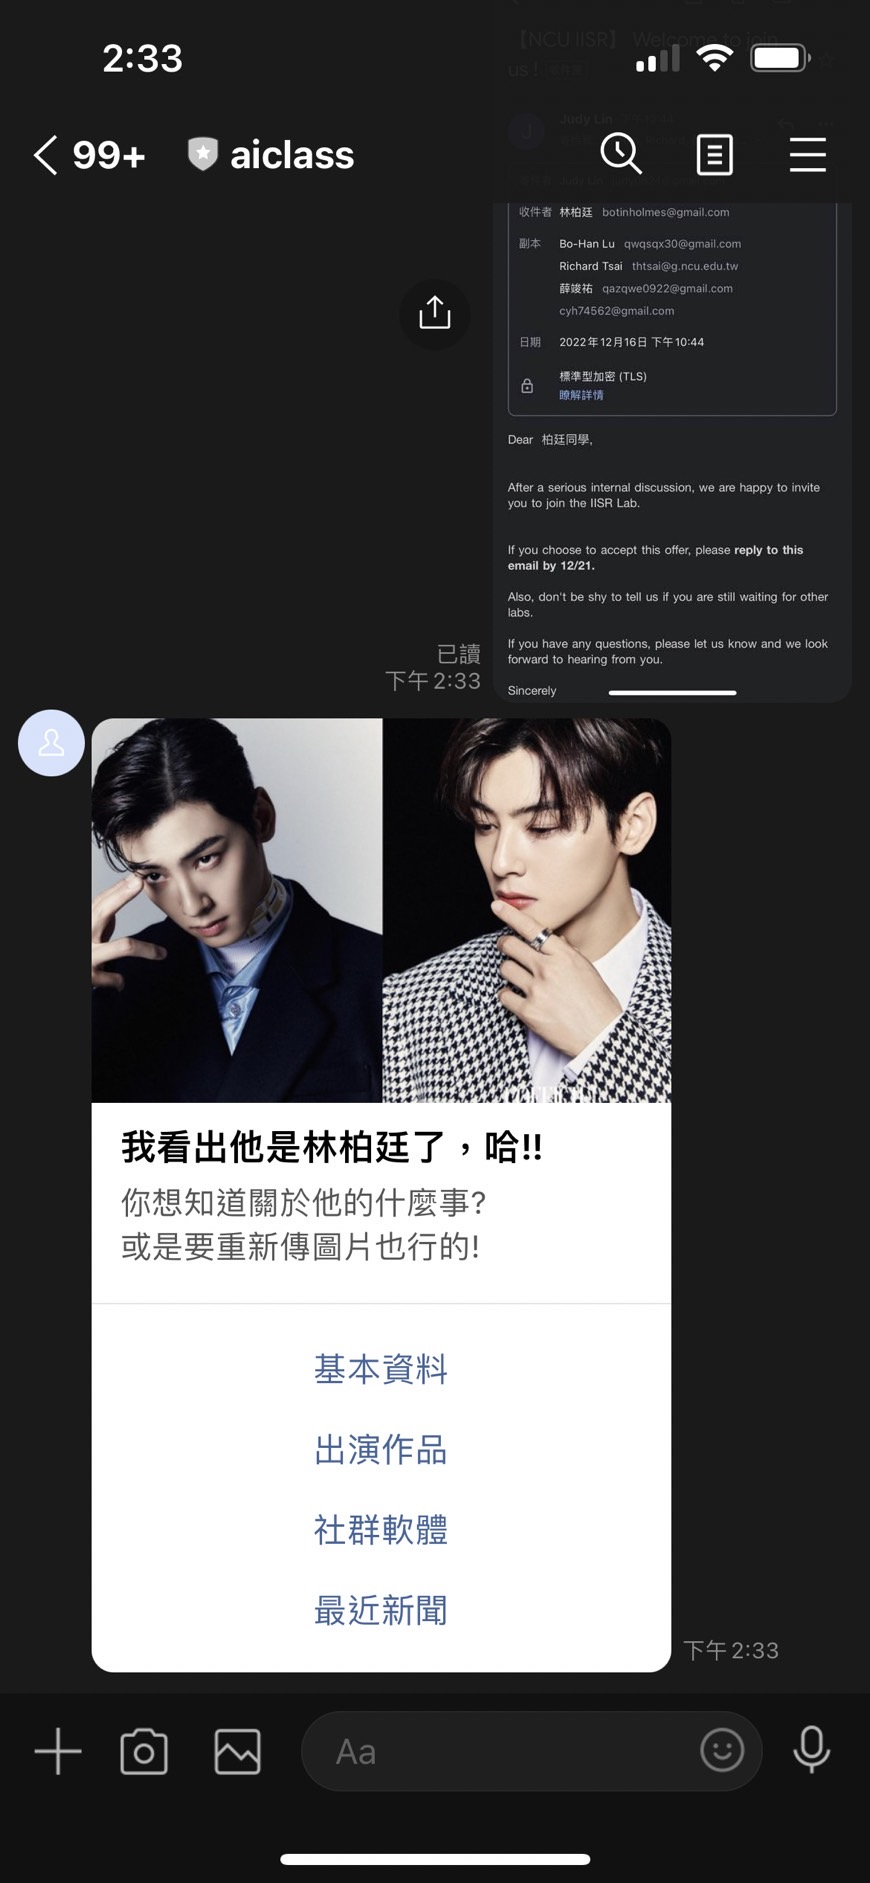
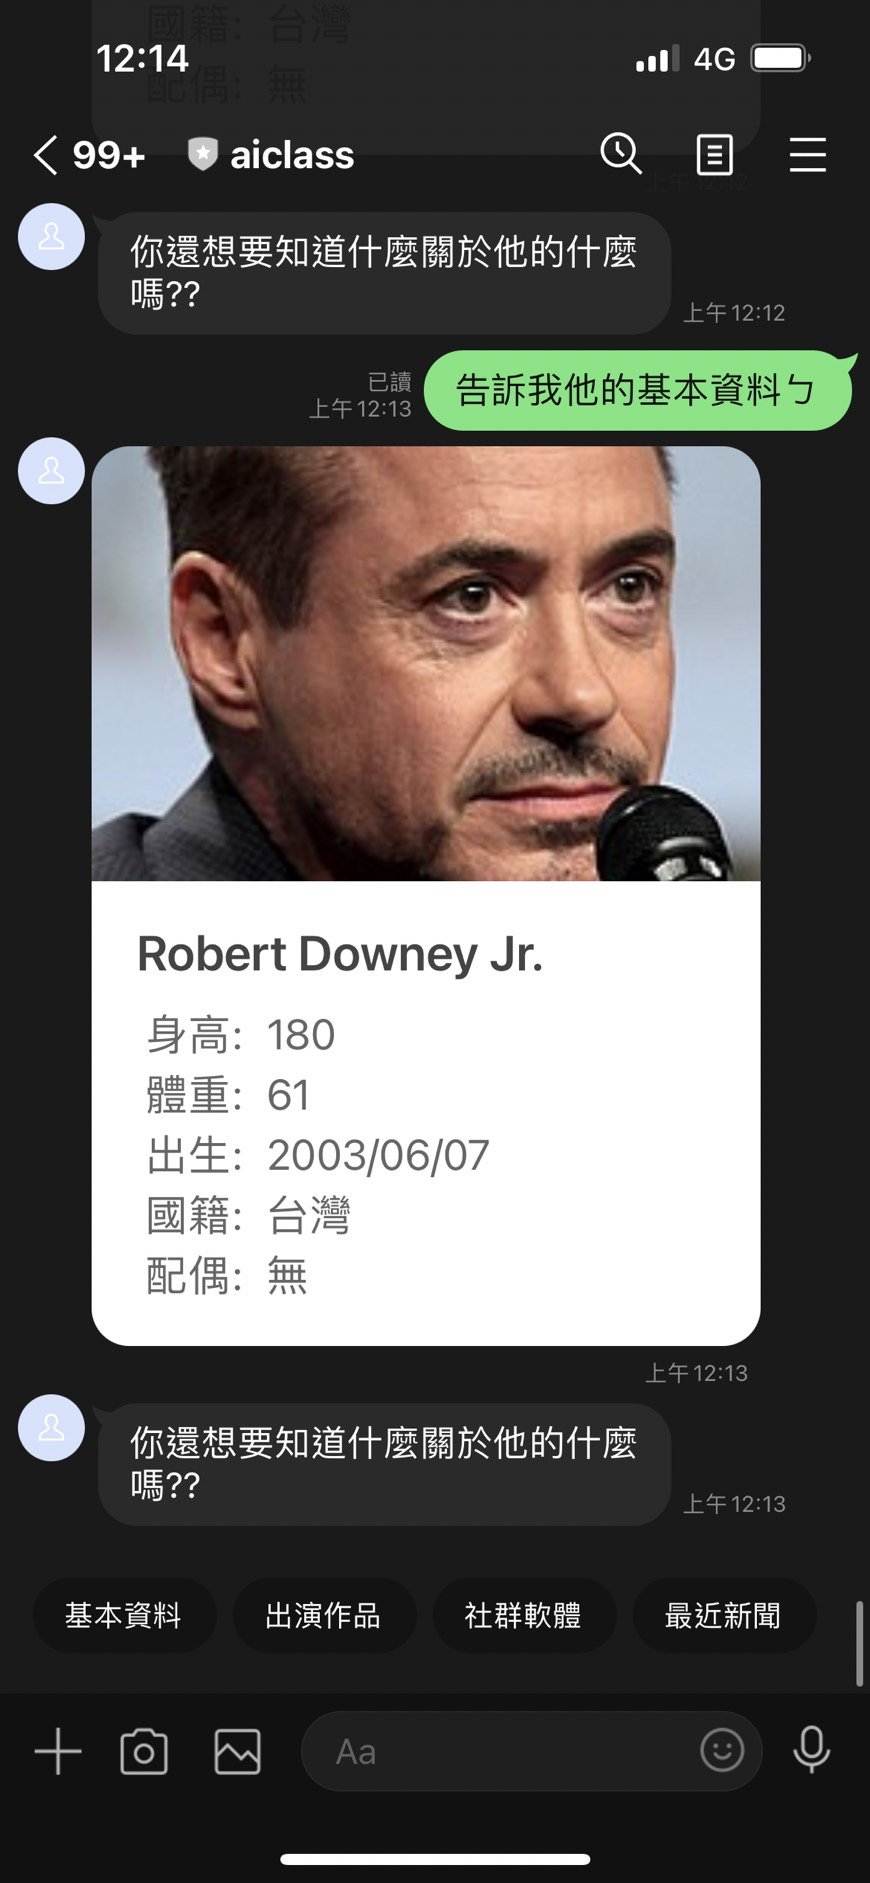
film almost done

diff --git a/functionalities.py b/functionalities.py
@@ -1,13 +1,18 @@
 from lineBot_api import *
 from flask import url_for
+from wiki_crawler import *
+
 import json
 
 #共用變數
-celebName = '林柏廷'
+celebName = 'Robert Downey Jr.'
 basicStr = '告訴我他的基本資料ㄅ'
 filmStr = '真想知道他演了什麼...'
 socialStr = '哀居拿來!'
 newsStr = '八卦一下好了'
+
+celebImageURL = ""
+soup = BeautifulSoup()
 
 #快速回覆選單
 quickReplyMessage = TextSendMessage(
@@ -34,15 +39,17 @@ def face_result(event):
     '''
         傳送辨識完成後的訊息
     '''
-    print(url_for('static', filename='image.png', _scheme='https', _external=True))
-    print('\n\n\n\n')
-    celebName = "林柏廷"
-    imageURL = "https://pgw.udn.com.tw/gw/photo.php?u=https://uc.udn.com.tw/photo/2022/11/25/0/19529482.jpg&x=0&y=0&sw=0&sh=0&sl=W&fw=750"
+    global celebName
+    global celebImageURL
+    global soup
+    celebName = "Robert Downey Jr."
+    soup = BeautifulSoup(requests.get(GetWikiURL(celebName)).text, "html.parser")
+    
+    celebImageURL = GetWikiPhotoURL(soup)
     buttonsMessage = TemplateSendMessage(
         alt_text='Buttons template',
         template=ButtonsTemplate(
-            # thumbnail_image_url=url_for('static', filename='image.png', _scheme='https', _external=True),
-            thumbnail_image_url=imageURL,
+            thumbnail_image_url=celebImageURL,
             title=f'我看出他是{celebName}了，哈!!',
             text='你想知道關於他的什麼事?\n或是要重新傳圖片也行的!',
             actions=[
@@ -72,16 +79,20 @@ def basic(event):
     '''
         傳送基本資料訊息
     '''
-    height, weight, born, nationality, spouse = "180", "61", "2003/06/07", "台灣", "無" 
-    image = "https://pgw.udn.com.tw/gw/photo.php?u=https://uc.udn.com.tw/photo/2022/11/25/0/19529482.jpg&x=0&y=0&sw=0&sh=0&sl=W&fw=750"
+    height, weight, born, nationality, spouse = "180", "61", GetBirthDay(soup), "台灣", "無" 
     messages = []
 
     with open('static/basicJson.txt', 'r', encoding='UTF-8') as f:
         s=f.read()
     message = json.loads(s)
 
-    message['hero']['url'] = image
+    message['hero']['url'] = celebImageURL
     message['body']['contents'][0]['text'] = celebName
+    message['body']['contents'][1]['contents'][0]['contents'][1]['text'] = height
+    message['body']['contents'][1]['contents'][1]['contents'][1]['text'] = weight
+    message['body']['contents'][1]['contents'][2]['contents'][1]['text'] = born
+    message['body']['contents'][1]['contents'][3]['contents'][1]['text'] = nationality
+    message['body']['contents'][1]['contents'][4]['contents'][1]['text'] = spouse
 
     flexMessage = FlexSendMessage(
         alt_text='hi',
@@ -95,7 +106,27 @@ def film(event):
     '''
         傳送出演作品訊息
     '''
-    message = ''
+    filmURL, filmTitle, filmYear = [], GetLatestMovies(GetIMDbPersonID(celebName)), []
+    print(filmTitle)
+    messages = []
+
+    with open('static/filmJson.txt', 'r', encoding='UTF-8') as f:
+        s=f.read()
+    message = json.loads(s)
+
+    # message['contents'][0]['body']['contents'][0]['url'] = filmURL[0]
+    # message['contents'][1]['body']['contents'][0]['url'] = filmURL[1]
+    # message['contents'][2]['body']['contents'][0]['url'] = filmURL[2]
+
+    # message['contents'][0]['body']['contents'][1]['contents'][0]['contents'][0]['text'] = '0'
+    # message['contents'][1]['body']['contents'][1]['contents'][0]['contents'][0]['text'] = '0'
+    # message['contents'][2]['body']['contents'][1]['contents'][0]['contents'][0]['text'] = '0'
+
+    # message['contents'][0]['body']['contents'][1]['contents'][1]['contents']['text'] = filmYear[0]
+    # message['contents'][1]['body']['contents'][1]['contents'][1]['contents']['text'] = filmYear[1]
+    # message['contents'][2]['body']['contents'][1]['contents'][1]['contents']['text'] = filmYear[2]
+
+
     flexMessage = FlexSendMessage(
         alt_text='hi',
         contents=message
@@ -108,6 +139,7 @@ def social(event):
     '''
         傳送社交軟體訊息
     '''
+    messages = []
     message = ''
     flexMessage = FlexSendMessage(
         alt_text='hi',
@@ -121,6 +153,7 @@ def news(event):
     '''
         傳送最近新聞訊息
     '''
+    messages = []
     message = ''
     flexMessage = FlexSendMessage(
         alt_text='hi',

diff --git a/wiki_crawler.py b/wiki_crawler.py
@@ -1,0 +1,43 @@
+import requests
+from bs4 import BeautifulSoup
+import imdb
+ia = imdb.IMDb()
+
+def GetWikiURL(name):
+
+    search_result = requests.get("https://en.wikipedia.org/w/index.php?search=" + name)
+
+    if(search_result.status_code != 200):
+        print("Some error Occured. Check the wiki website by your browser.")
+        return ""
+
+    if(search_result.url.find("search") != -1):
+        soup = BeautifulSoup(search_result.text, "html.parser")
+        a = soup.find("li" ,class_ = "mw-search-result mw-search-result-ns-0").findChild("div", class_="mw-search-result-heading").find("a")
+        return("https://en.wikipedia.org" + a["href"]) 
+
+    else:
+        return search_result.url
+
+def GetWikiPhotoURL(soup):
+    
+    a = soup.find("table",class_="infobox biography vcard").findChild("td",class_="infobox-image").findChild("a").findChild("img")
+    return "https:"+a["src"]
+
+def GetBirthDay(soup):
+    return soup.find('span', class_ = 'bday').contents[0]
+
+
+def GetIMDbPersonID(name):
+    search = ia.search_person(name)
+    return search[0].personID
+
+def GetLatestMovies(personID):
+    movies = []
+    actor_results = ia.get_person_filmography(personID)
+
+    for i in range(3):
+        movie_name = actor_results['data']['filmography']['actor'][i]
+        movies.append(movie_name)
+
+    return movies
